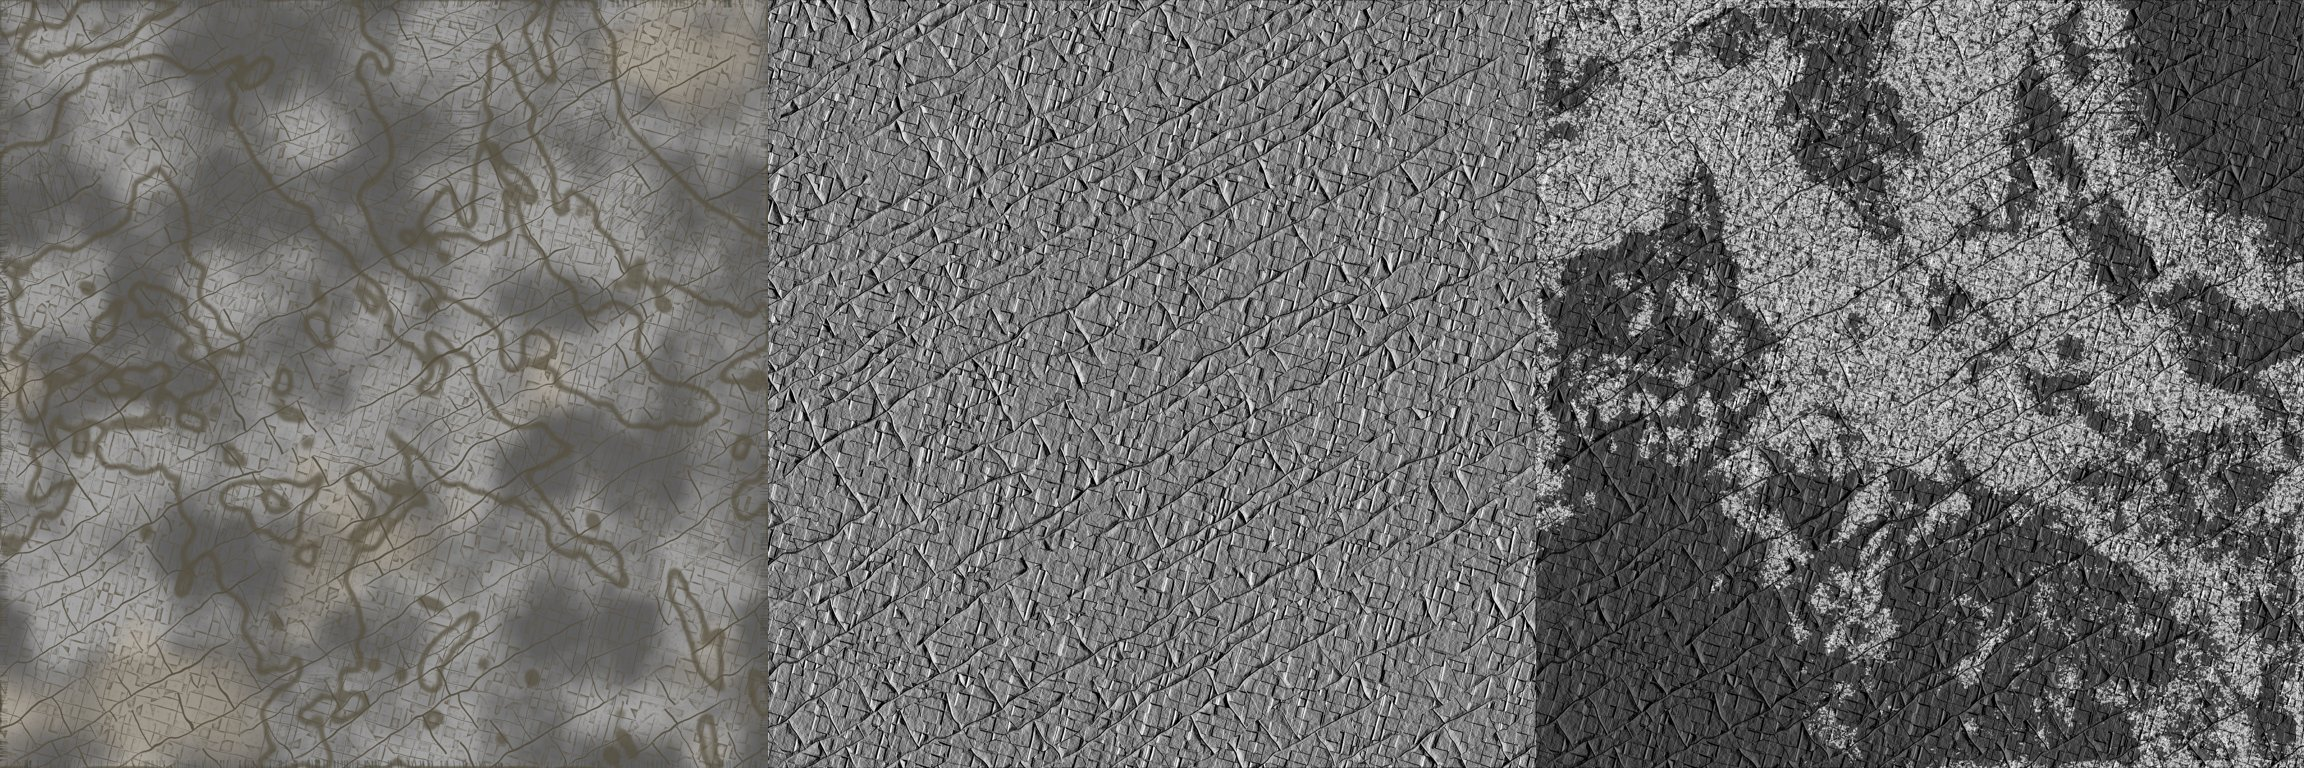
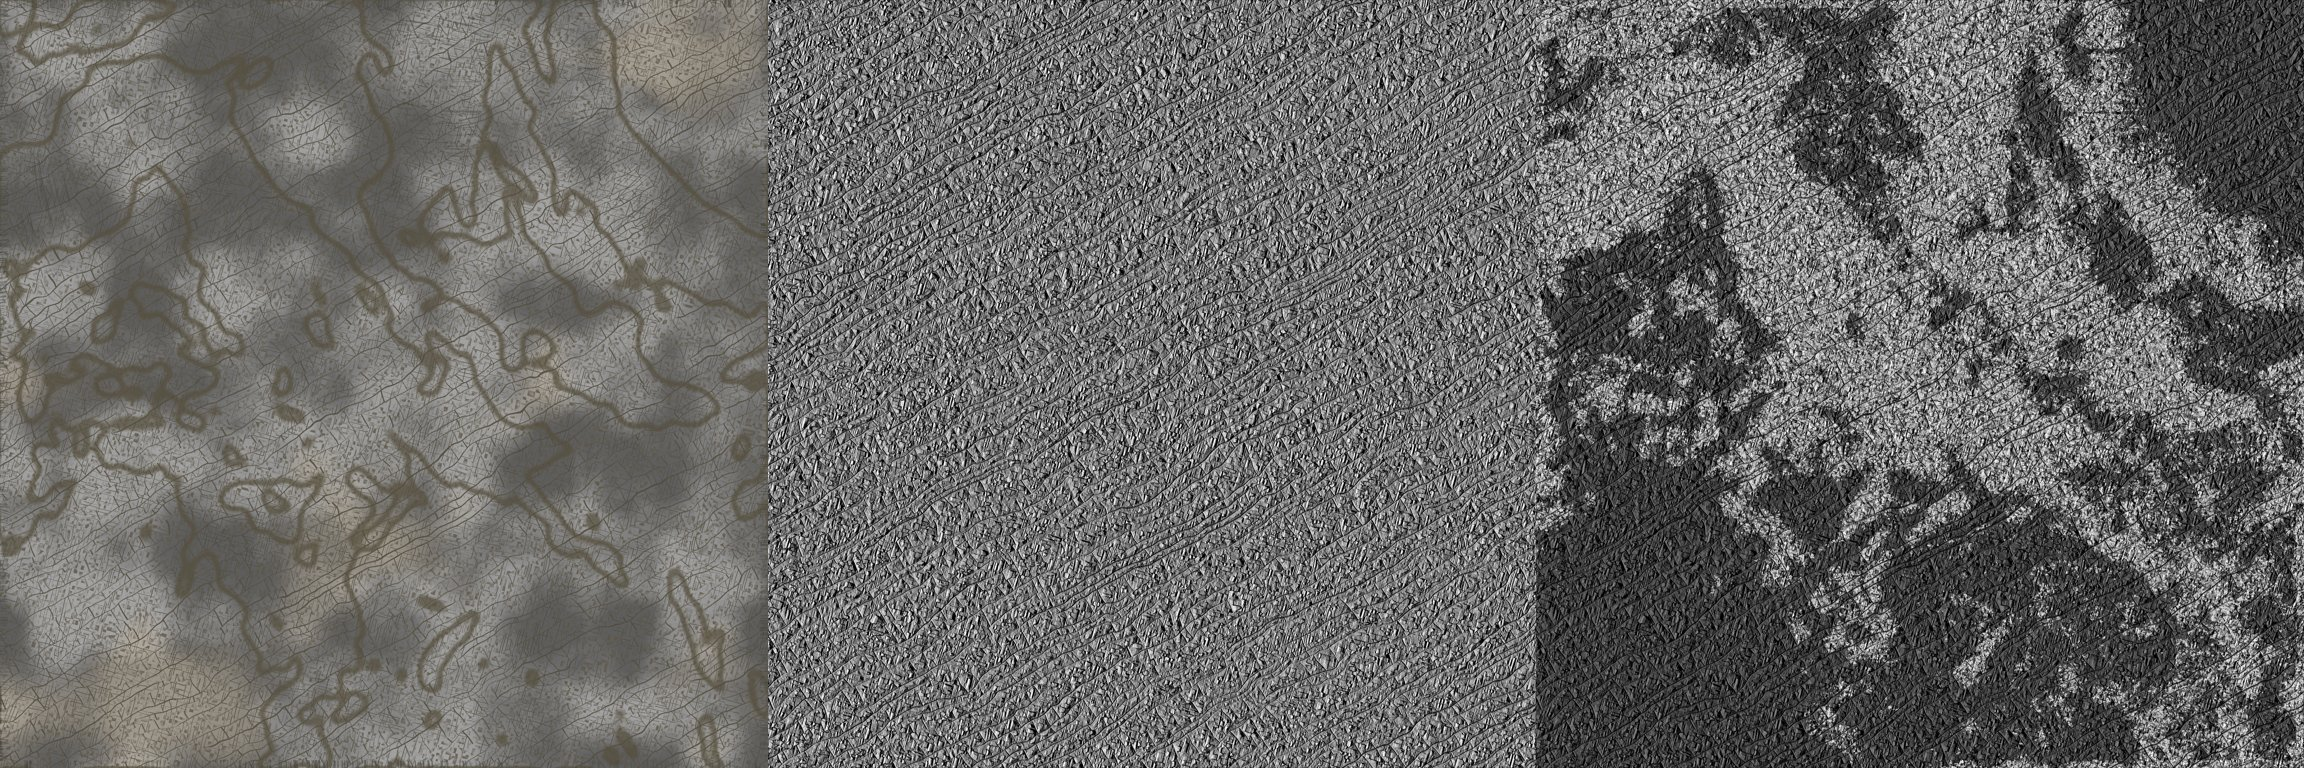
ROCK-STUDY: PBR micro detail (hex, the game's cliff layer), veins x3, rounded masses (soft-clip + mesh smoothing), matte rock-coloured kit rocks; stills trond2, doc 5d
Claude-Session: https://claude.ai/code/session_01RorUqGnZYr6cCksM57mNfe

diff --git a/flyDiy/tools/rock_study/bench.js b/flyDiy/tools/rock_study/bench.js
@@ -169,7 +169,7 @@ function medium(x, y, z) {
   const r1 = (1 - A[1]) / 5, r2 = (1 - A[2] * 2) / 4;
   const b = Math.pow(Math.max(r1 + r2, 0), 2) + 0.5;
   const e = (Math.pow(Math.pow(Bv[1], 0.025) + Math.pow(Cv[1], 0.2), 2) - 2) / 3.75;
-  const t = Math.max(b, e) - Math.log(Math.max(A[1], 1e-3)) / Math.log(0.05) - m / 40;
+  const t = Math.max(b, e) - 0.5 * Math.log(Math.max(A[1], 1e-3)) / Math.log(0.05) - m / 40;   // (the crest's sharpening HALVED: trondhjemite weathers to rounded masses, not spires)
   return { h: Math.pow(Math.max(t, 0), 1.2), crev: 1 - ss(0.0, 0.12, A[2]), id: A[3] };
 }
 let MEDN = null;   // its normalisation (mean, sd), measured once on the patch's own points
@@ -224,7 +224,7 @@ function buildSkirt(step) {
   //   plus a block noise (2.2 m at 4.5 m, 0.9 m at 1.9 m) so nothing is a plane.
   const sub = Math.max(1, Math.round(ST / step));
   const cells = []; for (let j = 0; j < N - 1; j++) for (let i = 0; i < N - 1; i++) if (cellSkirt(i, j)) cells.push([i, j]);
-  const key = new Map(); const P3 = [], CO = [], CU = [], FL = [], AL = [], MD = []; let nv = 0;
+  const key = new Map(); const P3 = [], CO = [], CU = [], FL = [], AL = [], MD = [], DEF = []; let nv = 0;   // DEF: [nx, ny, nz, macro m, medium z * exposure, exposure]
   const tmp4 = new Uint8Array(4), tmp2 = new Float32Array(2), tmp1 = new Uint8Array(1), tmp3 = new Uint8Array(3);
   const vert = (gi, gj) => {
     const k0 = gi * 1048576 + gj; let v = key.get(k0); if (v !== undefined) return v;
@@ -245,9 +245,9 @@ function buildSkirt(step) {
       eX = ex0 < 0 ? m : ss(0.25, 0.75, ex0) * Math.min(1, m * 3);
       med = medium(x, y, z); const [mu, sd] = medNorm();
       const g = gradXZ(x, z, 5), l = Math.hypot(g[0], 1, g[1]);
-      const dd = TRD.hAt(x, z) * Math.min(1, m * 3) + eX * (MED.lift + MED.amp * Math.max(-1.2, Math.min(2.2, (med.h - mu) / sd)) * 0.5);
-      X += -g[0] / l * dd; Y += dd / l; Z += -g[1] / l * dd;
-    } else if (m > 0) {
+      DEF.push(-g[0] / l, 1 / l, -g[1] / l, TRD.hAt(x, z) * Math.min(1, m * 3), (med.h - mu) / sd, eX);
+    } else if (m > 0 || TSKIRT) {
+      if (TSKIRT) { DEF.push(0, 1, 0, 0, 0, 0); } else {
       const g = gradXZ(x, z, 5), gl2 = Math.hypot(g[0], g[1]) || 1e-6, ox = -g[0] / gl2, oz = -g[1] / gl2;   // outward = downhill
       const sl = Math.atan(gl2), T = 8.0 + 8.0 * vn3(x / 60, 0, z / 60);
       // THE BEDS DIP (18 deg toward DIP, plus a 9 m warp at 60 m): flat beds on a dome are its contour lines - rings, a
@@ -262,8 +262,8 @@ function buildSkirt(step) {
       const joint = (hh(jb, bed, 11) - 0.5) * 4.0 * m;
       const block = ((vn3(x / 4.5, y / 4.5, z / 4.5) - 0.5) * 2.2 + (vn3(x / 1.9 + 5, y / 1.9, z / 1.9) - 0.5) * 0.9) * m;
       const dd = -(1 - frs) * run * k + joint + block;
-      X += ox * dd; Z += oz * dd; Y += (vn3(x / 7, y / 7 + 9, z / 7) - 0.5) * 0.6 * m;
-    }
+      X += ox * dd; Z += oz * dd; Y += (vn3(x / 7, y / 7 + 9, z / 7) - 0.5) * 0.6 * m; }
+    } else if (TSKIRT) DEF.push(0, 1, 0, 0, 0, 0);
     P3.push(X, Y, Z); attrsAt(x, z, null, tmp4, tmp2, tmp1, tmp3, 0, 0, 0, 0);
     CO.push(tmp4[0], tmp4[1], tmp4[2], tmp4[3]); CU.push(tmp2[0], tmp2[1]); FL.push(tmp1[0]); AL.push(tmp3[0], tmp3[1], tmp3[2]);
     MD.push(med ? med.crev * eX : 0, med ? med.id : 0.5);
@@ -274,6 +274,20 @@ function buildSkirt(step) {
     const gi = ci * sub + a, gj = cj * sub + b;
     const p = vert(gi, gj), q = vert(gi + 1, gj), r = vert(gi, gj + 1), t = vert(gi + 1, gj + 1);
     idx.push(p, r, q, q, r, t);
+  }
+  if (TSKIRT && DEF.length === nv * 6) {
+    // THE MEDIUM RELIEF, ROUNDED (16 Nov, the user: "at very close range ... very blocky and pointy"): the Blender masses'
+    // value SOFT-CLIPPED (a tall peak is compressed - z / (1 + 0.55 z) - a hollow less so) and SMOOTHED over the mesh
+    // (two Laplacian passes on the 1.25 m lattice: a mass keeps its facets at 5-15 m, loses its needles at 1-3 m). Then
+    // the vertex goes out along the DEM's normal by the macro's height + exposure x (lift + amp x the masses).
+    let zc = new Float32Array(nv); for (let v = 0; v < nv; v++) { const z0 = DEF[v * 6 + 4]; zc[v] = z0 > 0 ? z0 / (1 + 0.55 * z0) : z0 / (1 - 0.25 * z0); }
+    const nb = Array.from({ length: nv }, () => []);
+    for (let t = 0; t < idx.length; t += 3) { const a = idx[t], b = idx[t + 1], c = idx[t + 2]; nb[a].push(b, c); nb[b].push(a, c); nb[c].push(a, b); }
+    for (let pass = 0; pass < 2; pass++) { const o = new Float32Array(nv);
+      for (let v = 0; v < nv; v++) { const L = nb[v]; if (!L.length) { o[v] = zc[v]; continue; } let s = 0; for (const u of L) s += zc[u]; o[v] = zc[v] * 0.5 + 0.5 * s / L.length; }
+      zc = o; }
+    for (let v = 0; v < nv; v++) { const k = v * 6, dd = DEF[k + 3] + DEF[k + 5] * (MED.lift + MED.amp * 0.6 * zc[v]);
+      P3[v * 3] += DEF[k] * dd; P3[v * 3 + 1] += DEF[k + 1] * dd; P3[v * 3 + 2] += DEF[k + 2] * dd; }
   }
   const g = new THREE.BufferGeometry();
   g.setAttribute('position', new THREE.BufferAttribute(new Float32Array(P3), 3));
@@ -443,6 +457,20 @@ Smp sTrond(vec3 P, vec3 nGeo, float slope){
   }
   if (fw <= 0.001) o = sl; else if (fw >= 0.999) o = fa;
   else { vec2 h = hw2(sl.c.a, 1.0 - fw, fa.c.a, fw, 0.1); o.c = sl.c * h.x + fa.c * h.y; o.n = sl.n * h.x + fa.n * h.y; }
+  // THE PBR MICRO DETAIL (16 Nov, the user: "take a PBR texture of rock, probably one we have already ... blended with your
+  // own ... with the invisible tiling ... at close range"): the game's own 'cliff' layer (Poly Haven's rock face, at its
+  // natural 6.86 m) HEX-tiled and triplanar on the smooth normal - its LUMINANCE over its mean modulates our colour (our
+  // colour stays ours) and its NORMAL is added to ours; faded out by 60-180 m (past that a 6.86 m tile is a few pixels)
+  { float kd = 1.0 - smoothstep(60.0, 180.0, distance(P, cameraPosition));
+    if (kd > 0.01) {
+      vec2 a = pow(vec2(length(nGeo.xz), abs(nGeo.y)), vec2(8.0)); vec2 h2 = nGeo.xz * nGeo.xz; h2 *= h2;
+      float f = h2.y / max(h2.x + h2.y, 1e-8); vec3 twd = vec3(a.x * (1.0 - f), a.y, a.x * f) / max(a.x + a.y, 1e-6);
+      Smp t = sSet(3.0, 6.86, P, twd, 1.0);
+      float rel = clamp(luma3(t.c.rgb) / max(uMean[3], 1e-3), 0.35, 2.2);
+      o.c.rgb *= mix(1.0, rel, 0.65 * kd);
+      o.n.xyz += t.n.xyz * 3.0 * 0.6 * kd;
+      o.c.a = mix(o.c.a, o.c.a * 0.75 + t.c.a * 0.25, kd);
+    } }
   float hm = o.c.a;   // the tile's own height (0..1): its cracks are the low texels
   float vegM = 0.0;
   // the macro: the colour multiplier everywhere on it; its normal off the displaced mesh; its height into the blend's height
@@ -676,12 +704,20 @@ async function buildScatter() {
   const mapR = await tex(kitR.subjects[0].parts[0].map), norR = await tex(kitR.subjects[0].parts[0].nor);
   const mapC = await tex(kitC.subjects[0].parts[0].map), norC = await tex(kitC.subjects[0].parts[0].nor);
   if (norR) norR.colorSpace = THREE.NoColorSpace; if (norC) norC.colorSpace = THREE.NoColorSpace;
-  const rockMat = (map, nor) => { const m = new THREE.MeshStandardMaterial({ map, normalMap: nor, roughness: 0.95, metalness: 0 });
+  // (16 Nov, the user: the 3D rocks "a little too shiny ... keep their own detail pattern, but ... match our cliff color"):
+  // under ?trond the kit's map gives only its LUMINANCE over its own mean; the colour is the trondhjemite slab's mean
+  // (trond_gen's measure), fully matte, and the faces that look up take a little moss
+  const kitMean = im => { if (!im || !im.image) return 0.2; const c = document.createElement('canvas'); c.width = c.height = 32; const x = c.getContext('2d');
+    x.drawImage(im.image, 0, 0, 32, 32); const d = x.getImageData(0, 0, 32, 32).data; let s = 0; for (let i = 0; i < d.length; i += 4) s += 0.2126 * lin(d[i]) + 0.7152 * lin(d[i + 1]) + 0.0722 * lin(d[i + 2]); return s / 1024; };
+  const TC = TRD ? TRD.jS.meanAlbedo : [0.3, 0.28, 0.24];
+  const rockMat = (map, nor) => { const m = new THREE.MeshStandardMaterial({ map, normalMap: nor, roughness: TROND ? 1.0 : 0.95, metalness: 0 });
+    const km = kitMean(map);
     m.onBeforeCompile = sh => {   // THE FOOT IN THE GROUND: the lowest 25 % of a block darkened toward the ground's own shade
       sh.vertexShader = sh.vertexShader.replace('#include <common>', '#include <common>\nvarying float vFoot; uniform float uH;')
         .replace('#include <begin_vertex>', '#include <begin_vertex>\nvFoot = position.y / max(uH, 1e-3);');
       sh.fragmentShader = sh.fragmentShader.replace('#include <common>', '#include <common>\nvarying float vFoot;')
-        .replace('#include <map_fragment>', '#include <map_fragment>\n diffuseColor.rgb *= mix(0.55, 1.0, smoothstep(0.08, 0.45, vFoot));' + (TROND ? '\n { float l = dot(diffuseColor.rgb, vec3(0.2126, 0.7152, 0.0722)); diffuseColor.rgb = mix(vec3(l), diffuseColor.rgb, 0.15) * vec3(0.96, 0.99, 1.04); }' : ''));
+        .replace('#include <map_fragment>', '#include <map_fragment>\n' + (TROND ? ' { float l = dot(diffuseColor.rgb, vec3(0.2126, 0.7152, 0.0722)); diffuseColor.rgb = vec3(' + TC.map(v => v.toFixed(4)).join(', ') + ') * clamp(pow(l / ' + km.toFixed(4) + ', 0.8), 0.35, 2.0); }\n' : '') + ' diffuseColor.rgb *= mix(0.55, 1.0, smoothstep(0.08, 0.45, vFoot));')
+        .replace('#include <normal_fragment_maps>', '#include <normal_fragment_maps>' + (TROND ? '\n { float up = smoothstep(0.55, 0.9, inverseTransformDirection(normal, viewMatrix).y); diffuseColor.rgb = mix(diffuseColor.rgb, vec3(0.05, 0.065, 0.025), up * 0.55); }' : ''));
       sh.uniforms.uH = { value: m.userData.h || 1 }; };
     return m; };
   // candidates
@@ -727,7 +763,7 @@ async function buildScatter() {
     const ar = lin(sampleK(ALB, 3, 0, x, z)), ag = lin(sampleK(ALB, 3, 1, x, z)), ab = lin(sampleK(ALB, 3, 2, x, z));
     const la2 = (0.2126 * ar + 0.7152 * ag + 0.0722 * ab) * MACEXP;
     const t = Math.min(1.3, Math.max(0.45, la2 / 0.16));
-    S.list.push([M.clone(), TROND ? new THREE.Color(t * 2.1, t * 2.1, t * 2.15) : new THREE.Color(t * 0.97, t * 0.97, t * 0.94)]);
+    S.list.push([M.clone(), TROND ? new THREE.Color(0.62 + 0.2 * r3, 0.62 + 0.2 * r3, 0.6 + 0.2 * r3) : new THREE.Color(t * 0.97, t * 0.97, t * 0.94)]);
   }
   const root = new THREE.Group(); scene.add(root);
   for (const S of subs) { if (!S.list.length) continue; S.mat.userData.h = S.s.h;

diff --git a/flyDiy/tools/rock_study/trond_gen.py b/flyDiy/tools/rock_study/trond_gen.py
@@ -416,13 +416,16 @@ def macro(N, EXT, S):
         op = ss(0.45, 0.6, vnoise_at(t / 160.0 + li * 13.1, li.astype(np.float32) * 0.0 + 0.5, 64, seed + 3))   # segments 100-400 m
         wid = 0.8 + 1.7 * hash2(li, 1, seed)
         return d, li, band, op, wid
-    dA, lA, bA, oA, wA = jset(150, 28, 85, S + 1, 22.0)
-    dB, lB, bB, oB, wB = jset(60, 35, 110, S + 11, 18.0, shiftBand=(hash2(bA, 5, S) * 150).astype(np.float32))
+    # (16 Nov, the user: "the network a little denser ... twice or maybe even 3 times denser" - every set at about a third of
+    # its spacing, the primaries a little narrower so the denser net does not turn into trenches)
+    dA, lA, bA, oA, wA = jset(150, 10, 30, S + 1, 22.0)
+    dB, lB, bB, oB, wB = jset(60, 12, 38, S + 11, 18.0, shiftBand=(hash2(bA, 5, S) * 150).astype(np.float32))
+    wA = wA * 0.65; wB = wB * 0.65
     oB = oB * (hash2(bA * 97 + lB, 6, S) < 0.65)
     # THE DENSER NETWORK (15 Nov, the user): two SECONDARY sets, closer (9-30 m), narrower, shorter, each staggered on the
     # primaries' bands so they end on them
-    dC, lC, bC, oC, wC = jset(105, 9, 28, S + 21, 6.0, shiftBand=(hash2(bA * 7 + bB, 7, S) * 80).astype(np.float32))
-    dD, lD, bD, oD, wD = jset(15, 12, 34, S + 31, 6.0, shiftBand=(hash2(bB * 5 + bA, 8, S) * 80).astype(np.float32))
+    dC, lC, bC, oC, wC = jset(105, 3.5, 10, S + 21, 6.0, shiftBand=(hash2(bA * 7 + bB, 7, S) * 80).astype(np.float32))
+    dD, lD, bD, oD, wD = jset(15, 4.5, 12, S + 31, 6.0, shiftBand=(hash2(bB * 5 + bA, 8, S) * 80).astype(np.float32))
     oC = oC * (hash2(bA * 31 + lC, 9, S) < 0.7); oD = oD * (hash2(bB * 17 + lD, 10, S) < 0.6)
     wC = wC * 0.4; wD = wD * 0.35
     # ---- the surface: domed blocks (rounded within ~10 m of a joint), the joints cut into them

diff --git a/flyDiy/futureDesigns/ROCK-STUDY-2026-11.md b/flyDiy/futureDesigns/ROCK-STUDY-2026-11.md
@@ -339,6 +339,40 @@ past 150 m) and the kits' LOD.
 **What it still lacks** (the user's next mission): the vegetation that GROWS in the green zones (tufts, shrubs, krummholz
 from the cover ring, placed by the same masks), and calibration of the colours against the game's own grade on a GPU.
 
+### 5d. The user's fourth pass (16 Nov)
+
+**What they asked for:**
+- A PBR rock texture blended in for close-range micro detail, with tiling you can't see.
+- A vein network 2-3x denser.
+- Something done about the close-up of a top, which looked "very blocky and pointy".
+- The 3D rocks no longer shiny, keeping their own detail but in the cliff's colour.
+
+Stills: `reports/evidence/ROCK-STUDY/trond2/`, 15 Nov above and 16 Nov below.
+
+- **The PBR micro detail.** The game's own `cliff` layer (Poly Haven rock face, at its natural 6.86 m), hex-tiled and
+  triplanar on the smooth normal.
+  - Only its LUMINANCE over its mean and its NORMAL go onto our rock, so our colour stays ours.
+  - It fades out between 60 and 180 m.
+  - Cost: near view 29.6 -> 44.7 texture reads per ground pixel, 3890 -> 4354 ms (+12 %). Face 32.1 -> 34.5 reads,
+    4621 ms.
+- **Veins x3.** Every joint set at a third of its spacing (primaries 10-38 m, secondaries 3.5-12 m); the primaries 35 %
+  narrower.
+- **The blocky tops: a geology answer.** Trondhjemite weathers to ROUNDED masses (whalebacks, exfoliation domes) and
+  stepped joint blocks, not spires.
+  - The Blender masses' crest sharpening (the log term) is halved.
+  - The value is soft-clipped (a peak compressed by z / (1 + 0.55 z)) and smoothed over the mesh (two Laplacian passes on
+    the 1.25 m lattice).
+  - The masses keep their 5-15 m facets and lose their 1-3 m needles. `trond2/ground_geometry_plain.jpg` is the
+    geometry alone.
+  - Real plants in the flats and pockets (the next mission) will cover much of what is left.
+- **The 3D rocks** (the game's kits, scattered):
+  - fully matte (roughness 1);
+  - their map gives only its luminance over its own mean, and the colour is the trondhjemite slab's mean, x 0.62-0.82 to
+    sit with the macro-darkened ground;
+  - their up-facing faces take some moss.
+  - Known flaw: one kit's UVs smear on the largest blocks (the ground view's right-hand rock). The fix is to give those
+    the same triplanar material as the ground.
+
 ## 6. Recommendation: what to build first, what it costs, what it changes
 
 **Build first: rock clusters in the cover ring.** It changes the most of what an aeroplane sees, for the least risk.
